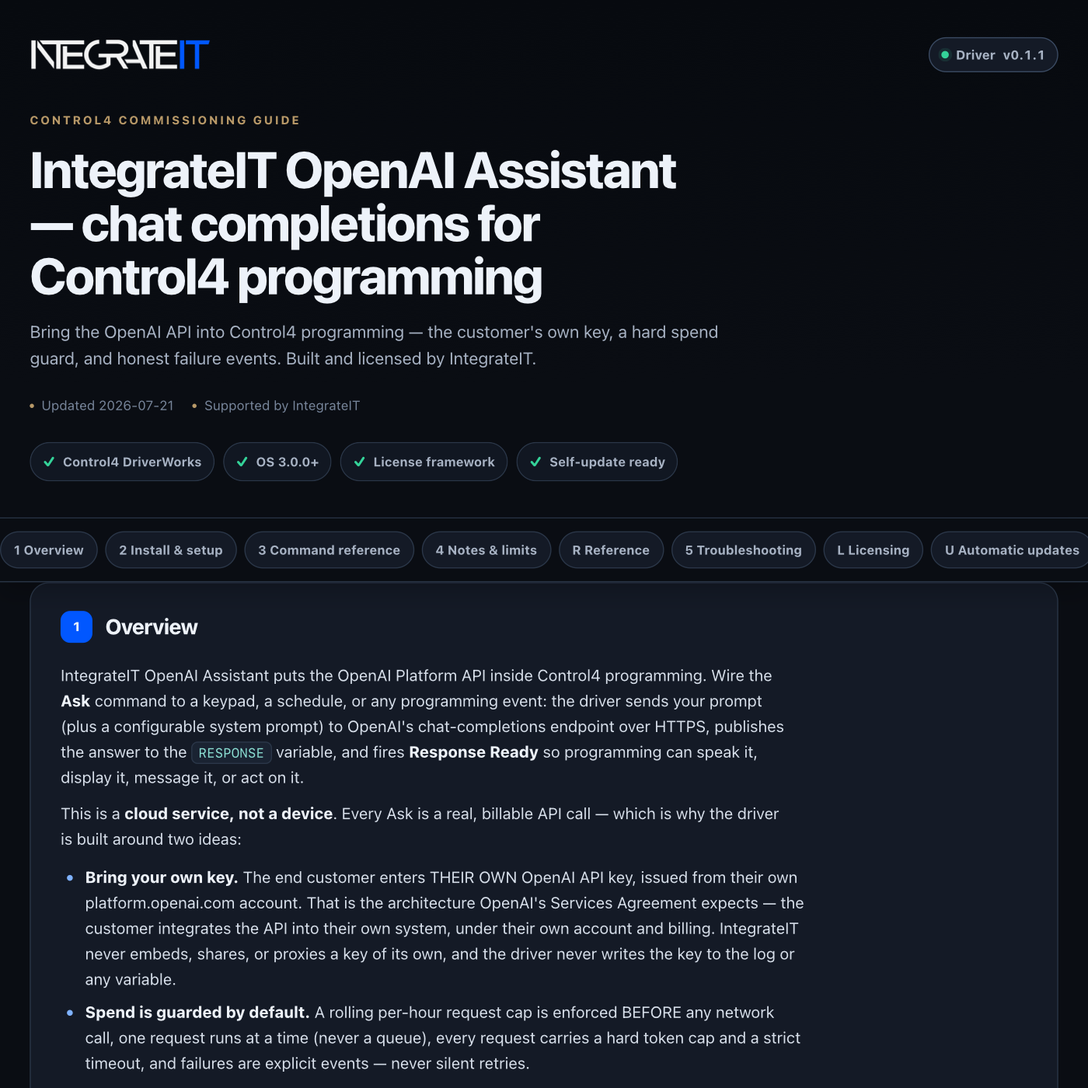
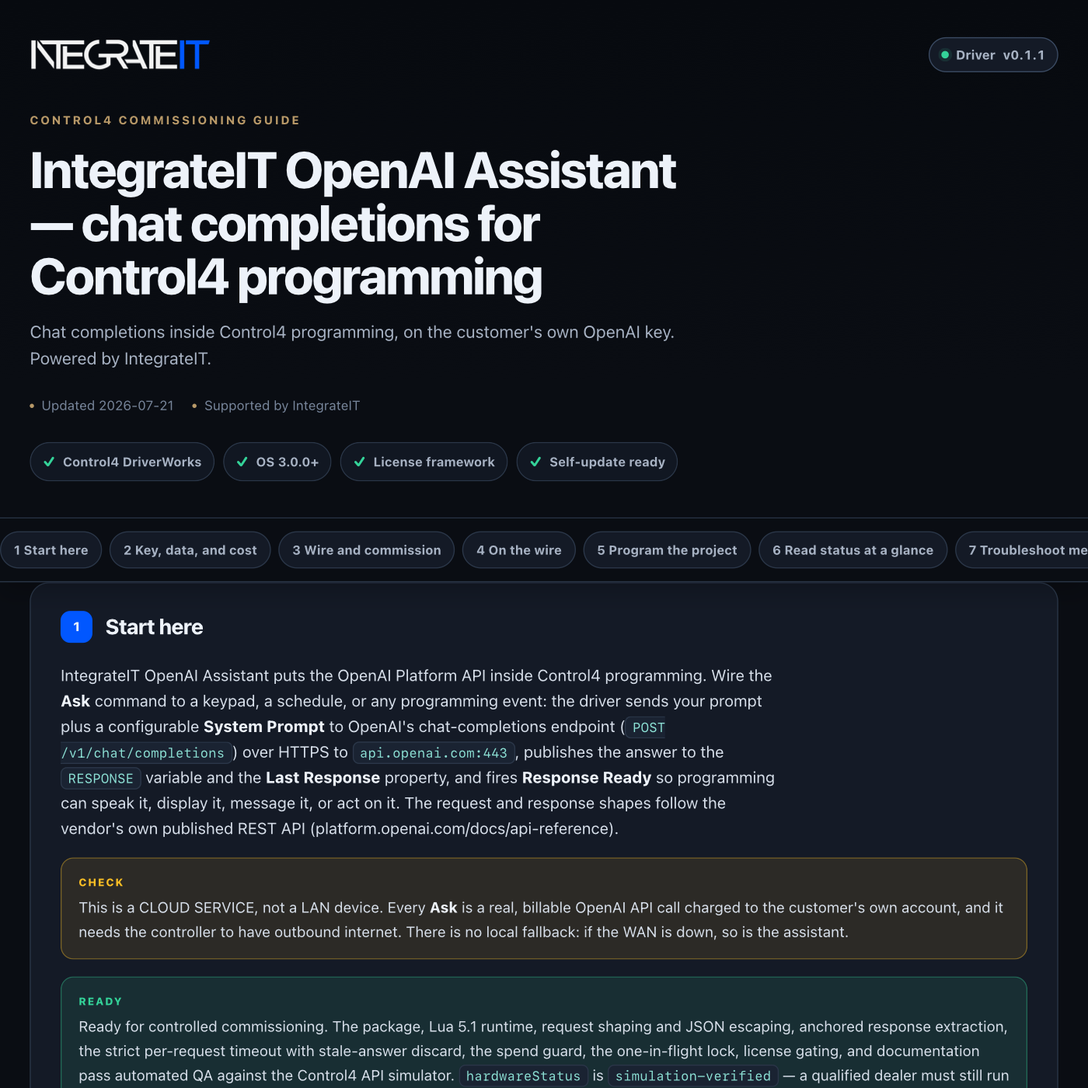
control4: publish driver channel (integrateit_openai 0.1.2)

diff --git a/control4/integrateit_openai/documentation.html b/control4/integrateit_openai/documentation.html
@@ -179,13 +179,13 @@ td code{white-space:normal}
     <div class="wrap">
       <div class="brandbar">
[1 lines of base64/hex data omitted]
-        <span class="version"><span class="word">Driver</span> v0.1.1</span>
+        <span class="version"><span class="word">Driver</span> v0.1.2</span>
       </div>
       <p class="eyebrow">Control4 commissioning guide</p>
       <h1>IntegrateIT OpenAI Assistant — chat completions for Control4 programming</h1>
-      <p class="sub">Bring the OpenAI API into Control4 programming — the customer's own key, a hard spend guard, and honest failure events. Built and licensed by IntegrateIT.</p>
+      <p class="sub">Chat completions inside Control4 programming, on the customer's own OpenAI key. Powered by IntegrateIT.</p>
       <div class="meta">
-        <span>Updated 2026-07-21</span>
+        <span>Updated 2026-07-26</span>
         <span>Supported by IntegrateIT</span>
       </div>
       <div class="readiness" aria-label="Driver capabilities">
@@ -198,61 +198,140 @@ td code{white-space:normal}
   </header>
 
   <div class="toc-wrap">
-    <nav class="toc wrap" aria-label="Documentation sections"><a href="#overview">1 Overview</a><a href="#install">2 Install &amp; setup</a><a href="#commands">3 Command reference</a><a href="#notes">4 Notes &amp; limits</a><a href="#reference">R Reference</a><a href="#troubleshooting">5 Troubleshooting</a><a href="#licensing">L Licensing</a><a href="#updates">U Automatic updates</a><a href="#changelog">V Version history</a></nav>
+    <nav class="toc wrap" aria-label="Documentation sections"><a href="#overview">1 Start here</a><a href="#trust-flow">2 Key, data, and cost</a><a href="#setup">3 Wire and commission</a><a href="#protocol">4 On the wire</a><a href="#programming">5 Program the project</a><a href="#status">6 Read status at a glance</a><a href="#troubleshooting">7 Troubleshoot methodically</a><a href="#trust">8 Ownership, privacy, and licensing</a><a href="#reference">R Reference</a><a href="#licensing">L Licensing</a><a href="#updates">U Automatic updates</a><a href="#changelog">V Version history</a></nav>
   </div>
 
   <main class="wrap">
     <section class="card" id="overview" data-card="overview">
-  <h2><span class="n">1</span> Overview</h2>
-  <p>IntegrateIT OpenAI Assistant puts the OpenAI Platform API inside Control4 programming. Wire the <b>Ask</b> command to a keypad, a schedule, or any programming event: the driver sends your prompt (plus a configurable system prompt) to OpenAI's chat-completions endpoint over HTTPS, publishes the answer to the <code>RESPONSE</code> variable, and fires <b>Response Ready</b> so programming can speak it, display it, message it, or act on it.</p>
-  <p>This is a <b>cloud service, not a device</b>. Every Ask is a real, billable API call — which is why the driver is built around two ideas:</p>
+  <h2><span class="n">1</span> Start here</h2>
+  <p>IntegrateIT OpenAI Assistant puts the OpenAI Platform API inside Control4 programming. Wire the <b>Ask</b> command to a keypad, a schedule, or any programming event: the driver sends your prompt plus a configurable <b>System Prompt</b> to OpenAI's chat-completions endpoint (<code>POST /v1/chat/completions</code>) over HTTPS to <code>api.openai.com:443</code>, publishes the answer to the <code>RESPONSE</code> variable and the <b>Last Response</b> property, and fires <b>Response Ready</b> so programming can speak it, display it, message it, or act on it. The request and response shapes follow the vendor's own published REST API (platform.openai.com/docs/api-reference).</p>
+  <div class="note warn">This is a CLOUD SERVICE, not a LAN device. Every <b>Ask</b> is a real, billable OpenAI API call charged to the customer's own account, and it needs the controller to have outbound internet. There is no local fallback: if the WAN is down, so is the assistant.</div>
+  <div class="note good">Ready for controlled commissioning. The package, Lua 5.1 runtime, request shaping and JSON escaping, anchored response extraction, the strict per-request timeout with stale-answer discard, the spend guard, the one-in-flight lock, license gating, and documentation pass automated QA against the Control4 API simulator. <code>hardwareStatus</code> is <code>simulation-verified</code> — a qualified dealer must still run a fresh install and an observed <b>Ask</b> against the live OpenAI API from the target controller before handoff.</div>
+  <p><b>What you get</b></p>
   <ul>
-    <li><b>Bring your own key.</b> The end customer enters THEIR OWN OpenAI API key, issued from their own platform.openai.com account. That is the architecture OpenAI's Services Agreement expects — the customer integrates the API into their own system, under their own account and billing. IntegrateIT never embeds, shares, or proxies a key of its own, and the driver never writes the key to the log or any variable.</li>
-    <li><b>Spend is guarded by default.</b> A rolling per-hour request cap is enforced BEFORE any network call, one request runs at a time (never a queue), every request carries a hard token cap and a strict timeout, and failures are explicit events — never silent retries.</li>
+    <li>An <b>Ask</b> command from any programming event — prompt from the <code>PROMPT</code> parameter (e.g. driven by another driver) or the <code>Prompt</code> property — to <code>POST /v1/chat/completions</code> with a configurable <b>Model</b> and <b>System Prompt</b></li>
+    <li>The answer published to the bounded <code>RESPONSE</code> variable, mirrored to the <b>Last Response</b> property, with a <b>Response Ready</b> event to react on</li>
+    <li>A rolling one-hour request cap enforced BEFORE any network call, one request in flight at a time, and a hard per-request timeout — every failure and every cap block fires an event, never a silent retry (a busy refusal is the one deliberate exception: it sets Status only, so a double-tap cannot spam <b>Request Failed</b>)</li>
+    <li>Input and output both bounded: <b>Max Prompt Characters</b> caps the request, <b>Max Response Tokens</b> caps the answer, <b>Response Character Limit</b> caps the stored variable</li>
+    <li>Honest truncation: a token-capped answer is flagged in Status, never presented as complete</li>
+    <li><b>Test API Key</b> proves the key and the controller's internet path against the free <code>GET /v1/models</code> endpoint with zero token spend</li>
+    <li>BYO-key by design: the customer's own OpenAI key, sent only in the <code>Authorization</code> header, never written to the log or any variable</li>
   </ul>
 </section>
 
-<section class="card" id="install" data-card="install">
-  <h2><span class="n">2</span> Install &amp; setup</h2>
+<section class="card" id="trust-flow" data-card="trust-flow">
+  <h2><span class="n">2</span> Key, data, and cost</h2>
+  <p>This driver is built around three facts a dealer must be able to state plainly to the customer.</p>
+  <ul>
+    <li><b>The key is the customer's own.</b> The end customer creates an API key from THEIR OWN platform.openai.com account and enters it in the password-protected <code>OpenAI API Key</code> property. That is the architecture OpenAI's Services Agreement expects — the customer integrates the API into their own system, under their own account and billing. IntegrateIT never embeds, shares, or proxies a key of its own. The key rides ONLY in the <code>Authorization: Bearer</code> header; it is never written to the Lua log (even in <b>Debug Mode → Print</b>) and never placed in a variable.</li>
+    <li><b>Prompt data leaves the LAN.</b> Unlike a LAN device driver, this one deliberately sends data off the controller: each <b>Ask</b> transmits the <code>Model</code> id, the <code>System Prompt</code>, and the prompt text to <code>api.openai.com</code> over HTTPS, under the customer's key. Nothing else goes to OpenAI — no project identity, no Control4 credentials, no other property values. (The shared IntegrateIT license and update services are separate traffic, itemized under Ownership, privacy, and licensing.) Do not put anything in a prompt you would not send to OpenAI's cloud.</li>
+    <li><b>The customer pays.</b> Every <b>Ask</b> bills the customer's OpenAI account by model and token usage. The <code>Hourly Request Cap</code> is a runaway-loop guard, not a billing control — it stops a stuck scene from stacking spend, but it does not price anything. For a hard ceiling, set a monthly usage limit in the OpenAI dashboard; that is the real billing control.</li>
+  </ul>
+</section>
+
+<section class="card" id="setup" data-card="setup">
+  <h2><span class="n">3</span> Wire and commission</h2>
   <ol class="steps">
-    <li>Have the customer create (or log into) their account at <b>platform.openai.com</b>, add a billing method, and create an API key (starts with <code>sk-</code>). Recommend they set a monthly usage limit in the OpenAI dashboard — that is the real billing control.</li>
-    <li>Add this driver to the project. Paste the key into <code>OpenAI API Key</code>.</li>
-    <li>Run the <b>Test API Key</b> action — it calls the free <code>GET /v1/models</code> endpoint and confirms the key and the controller's internet path with no token spend.</li>
+    <li>Have the customer create (or log into) their account at <b>platform.openai.com</b>, add a billing method, create an API key (starts with <code>sk-</code>), and set a monthly usage limit in the OpenAI dashboard.</li>
+    <li>Add <b>IntegrateIT OpenAI Assistant</b> to the project. Paste the customer's key into <code>OpenAI API Key</code>.</li>
+    <li>Run the <b>Test API Key</b> action. It calls the free <code>GET /v1/models</code> endpoint and confirms both the key and the controller's outbound HTTPS path with zero token spend — Status should read <code>API key OK</code>.</li>
     <li>Pick a <code>Model</code> (the default <code>gpt-4o-mini</code> is the low-cost choice) and tune the <code>System Prompt</code> — it sets the assistant's role on every request.</li>
-    <li>In Programming, drive the <b>Ask</b> command. Put the question in the <code>Prompt</code> property (or supply a <code>PROMPT</code> parameter when driving the command from another driver), then react to <b>Response Ready</b> and read the <code>RESPONSE</code> variable.</li>
-    <li>Set <code>Hourly Request Cap</code>, <code>Max Response Tokens</code>, <code>Max Prompt Characters</code>, and <code>Request Timeout (s)</code> to taste — the defaults (30/hour, 256 tokens, 8000 chars, 30 s) suit occasional programming use. Raise <code>Max Prompt Characters</code> if you drive long-context prompts (e.g. a paragraph of sensor data); an Ask whose prompt is longer than the cap is failed before any billable call.</li>
-    <li>Optionally enter a <code>License Key</code> (see Licensing) — the driver runs in Lenient mode without one.</li>
+    <li>Set <code>Hourly Request Cap</code>, <code>Max Response Tokens</code>, <code>Max Prompt Characters</code>, and <code>Request Timeout (s)</code> to taste. The defaults (30/hour, 256 tokens, 8000 chars, 30 s) suit occasional programming use. Raise <code>Max Prompt Characters</code> only if you drive long-context prompts; an Ask whose prompt exceeds the cap is failed before any billable call.</li>
+    <li>Optionally enter a <code>License Key</code> (see below) — the driver runs in Lenient mode without one.</li>
+    <li>In Programming, run <b>Ask</b> with a real question in <code>Prompt</code> (or <b>Ask Now</b> from the Actions tab), then watch <b>Response Ready</b> fire and the <code>RESPONSE</code> variable fill in. That is the proof the whole path works.</li>
   </ol>
 </section>
 
-<section class="card" id="commands" data-card="commands">
-  <h2><span class="n">3</span> Command reference</h2>
+<section class="card" id="protocol" data-card="protocol">
+  <h2><span class="n">4</span> On the wire</h2>
+  <p>Every <b>Ask</b> sends one JSON body to the fixed base <code>https://api.openai.com</code>. There is deliberately no base-URL property — a configurable endpoint next to a stored secret would be a key-exfiltration hazard, so Azure OpenAI and proxy endpoints are out of scope for this version. The body is built by hand with strict escaping (a stray quote, backslash, or newline in free-text prompts cannot corrupt the JSON):</p>
+  <pre><code>{"model":"gpt-4o-mini","messages":[{"role":"system","content":"…"},{"role":"user","content":"…"}],"max_completion_tokens":256}</code></pre>
+  <p><code>max_completion_tokens</code> is the current official cap field (the older <code>max_tokens</code> is documented as deprecated). The reply is read by anchored extraction — find the <code>content</code> string, honor backslash escapes — not a full JSON parser, so a truncated or garbage body fails cleanly rather than half-parsing. Non-ASCII <code>\u</code> escapes in the answer degrade to <code>?</code> because Composer variables are byte strings. Each HTTP status maps to exactly one outcome:</p>
   <table>
-    <tr><th>Command</th><th>What it does</th></tr>
-    <tr><td>Ask</td><td>Sends the prompt (the <code>PROMPT</code> parameter if supplied, else the <code>Prompt</code> property) to the model. The answer lands in <code>RESPONSE</code> and fires <b>Response Ready</b>.</td></tr>
-    <tr><td>Clear Response</td><td>Empties <code>RESPONSE</code> and <code>Last Response</code>.</td></tr>
+    <tr><th>Reply</th><th>Driver outcome</th></tr>
+    <tr><td>2xx with message content</td><td><code>RESPONSE</code> published, <b>Response Ready</b> fires</td></tr>
+    <tr><td>2xx, <code>finish_reason</code> "length"</td><td>Answer published, but Status says "truncated at token cap"; <b>Response Ready</b> still fires</td></tr>
+    <tr><td>2xx, unrecognized shape</td><td><b>Request Failed</b> — "unrecognized response shape (no message content)"</td></tr>
+    <tr><td>401 / 403</td><td><b>Request Failed</b> — "API key rejected (HTTP N) — re-enter the customer's OpenAI key"</td></tr>
+    <tr><td>429</td><td><b>Rate Limit Reached</b> — "OpenAI rate limit (HTTP 429): …" with OpenAI's own message</td></tr>
+    <tr><td>other non-2xx</td><td><b>Request Failed</b> — "OpenAI error (HTTP N): …" with OpenAI's own message</td></tr>
+    <tr><td>no response (code 0)</td><td><b>Request Failed</b> — "no response from api.openai.com (transport failure — check internet)"</td></tr>
+    <tr><td>no reply within <code>Request Timeout (s)</code></td><td><b>Request Failed</b> — "request timed out after Ns"; a late answer is discarded, never published</td></tr>
   </table>
-  <p><b>Actions tab:</b> *Ask Now* (uses the <code>Prompt</code> property), *Test API Key* (free key check), *Clear Response*, *Print Configuration*.</p>
-  <p><b>Events:</b> *Response Ready* (an answer was published), *Request Failed* (<code>LAST_ERROR</code> names the reason — missing config, transport failure, API error, unrecognized response, or timeout), *Rate Limit Reached* (blocked by the local hourly cap, or OpenAI answered HTTP 429).</p>
-  <p><b>Variables:</b> <code>RESPONSE</code> (the answer, truncated to <code>Response Character Limit</code>), <code>LAST_ERROR</code>, <code>BUSY</code> (a request is in flight), <code>REQUESTS_THIS_HOUR</code> (spend-guard count).</p>
+  <p>The driver is <b>non-streaming</b>: it waits for the complete answer, so a long generation takes seconds before <b>Response Ready</b> fires. It runs <b>one request in flight at a time</b> — a second <b>Ask</b> while one is pending is refused (Status reads Busy), never queued, so a stuck scene can never stack up API spend.</p>
 </section>
 
-<section class="card" id="notes" data-card="notes">
-  <h2><span class="n">4</span> Notes &amp; limits</h2>
+<section class="card" id="programming" data-card="programming">
+  <h2><span class="n">5</span> Program the project</h2>
+  <table>
+    <tr><th>Command</th><th>What it does</th></tr>
+    <tr><td>Ask</td><td>Sends the prompt (<code>PROMPT</code> parameter if supplied, else the <code>Prompt</code> property) to the model. The answer lands in <code>RESPONSE</code> and fires <b>Response Ready</b>.</td></tr>
+    <tr><td>Clear Response</td><td>Empties <code>RESPONSE</code> and the <b>Last Response</b> property.</td></tr>
+  </table>
+  <p><b>Actions tab:</b> *Ask Now* (uses the <code>Prompt</code> property), *Test API Key* (free key check), *Clear Response*, *Print Configuration* (prints config and spend-guard state — never the API key or license key).</p>
+  <table>
+    <tr><th>Event</th><th>Meaning</th></tr>
+    <tr><td><code>Response Ready</code></td><td>An answer was published to <code>RESPONSE</code></td></tr>
+    <tr><td><code>Request Failed</code></td><td>An Ask produced no answer — <code>LAST_ERROR</code> names the reason (missing config, over-long prompt, transport failure, API error, unrecognized response, or timeout)</td></tr>
+    <tr><td><code>Rate Limit Reached</code></td><td>Blocked by the local <code>Hourly Request Cap</code>, or OpenAI answered HTTP 429</td></tr>
+  </table>
+  <table>
+    <tr><th>Variable</th><th>Type</th><th>Meaning</th></tr>
+    <tr><td><code>RESPONSE</code></td><td>STRING</td><td>The answer, truncated to <code>Response Character Limit</code> (a client-side cut is marked with an ellipsis)</td></tr>
+    <tr><td><code>LAST_ERROR</code></td><td>STRING</td><td>The reason the last Ask failed or was blocked; empty after a good answer</td></tr>
+    <tr><td><code>BUSY</code></td><td>BOOL</td><td>A request is in flight — gate a scene on this before issuing another Ask</td></tr>
+    <tr><td><code>REQUESTS_THIS_HOUR</code></td><td>STRING</td><td>Requests counted against the rolling one-hour spend guard</td></tr>
+  </table>
+  <p>Three ways these wire into Composer programming:</p>
   <ul>
-    <li><b>Cost lives on the customer's OpenAI account.</b> The hourly cap is a guard against runaway programming loops, not a billing control — actual cost depends on the model and tokens. Set a usage limit in the OpenAI dashboard for a hard ceiling.</li>
-    <li><b>Both ends of a request are bounded.</b> <code>Max Response Tokens</code> caps the answer (output cost); <code>Max Prompt Characters</code> caps the prompt (input cost). An Ask whose prompt exceeds the character cap is failed with <b>Request Failed</b> *before* any billable call, so a scene that accidentally builds a giant prompt string never ships it to OpenAI.</li>
-    <li><b>A cut-off answer says so.</b> If the model stops at <code>Max Response Tokens</code> (OpenAI <code>finish_reason</code> "length"), the answer is truncated mid-thought. The driver still fires <b>Response Ready</b> and publishes what came back, but Status reads "truncated at token cap" — raise <code>Max Response Tokens</code> for a complete answer. (Separately, <code>RESPONSE</code> is also capped to <code>Response Character Limit</code> for display, marked with an ellipsis.)</li>
-    <li><b>The endpoint is fixed to <code>api.openai.com</code>.</b> There is deliberately no base-URL property: a configurable endpoint next to a stored secret would be a key-exfiltration hazard. Azure OpenAI and proxy endpoints are out of scope for this version.</li>
-    <li><b>Non-streaming.</b> The driver waits for the complete answer, so a long generation takes seconds before <b>Response Ready</b> fires. Keep <code>Max Response Tokens</code> modest for snappy scenes.</li>
-    <li><b>One request at a time.</b> An Ask issued while another is pending is refused (Status shows Busy) rather than queued — a stuck scene can never stack up API spend.</li>
-    <li><b>After a timeout the answer is thrown away.</b> If the API answers after <code>Request Timeout (s)</code>, the driver has already fired <b>Request Failed</b> and will not publish the stale answer.</li>
-    <li>The <code>OpenAI API Key</code> is treated as a secret: sent only in the request header, never written to the Lua log (even in Debug Mode), never placed in a variable.</li>
-    <li>Response extraction is anchored, not a full JSON parser: an unexpected response shape fails cleanly as <b>Request Failed</b>. Non-ASCII escape sequences in answers degrade to <code>?</code> in the <code>RESPONSE</code> variable.</li>
+    <li><b>When a keypad button is pressed → drive Ask.</b> Set the <code>Prompt</code> property (or pass a <code>PROMPT</code> parameter when driving from another driver), then on <b>Response Ready</b> speak <code>RESPONSE</code> through an announcement or push it to on-screen text.</li>
+    <li><b>When Request Failed fires → degrade gracefully.</b> Read <code>LAST_ERROR</code> and announce "assistant unavailable" so a scene never hangs waiting on a cloud that did not answer.</li>
+    <li><b>When Rate Limit Reached fires → back off.</b> Hold further Asks or light a status indicator; compare <code>REQUESTS_THIS_HOUR</code> against <code>Hourly Request Cap</code> to see whether it was the local guard or OpenAI's 429.</li>
   </ul>
+  <p>Control is gated by the license: under <b>Strict</b> enforcement an unlicensed controller sends nothing and fires no event — read <code>License Status</code> for that condition. The default <b>Lenient</b> mode allows commissioning while <code>License Status</code> carries the nag.</p>
+</section>
+
+<section class="card" id="status" data-card="status">
+  <h2><span class="n">6</span> Read status at a glance</h2>
+  <table>
+    <tr><th>Property / variable</th><th>Healthy result</th><th>What to do otherwise</th></tr>
+    <tr><td><code>Status</code></td><td><code>Idle</code>, <code>Asking &lt;model&gt;…</code>, or <code>Response ready (N chars)</code></td><td><code>Ask failed — &lt;reason&gt;</code> carries the same text as <code>LAST_ERROR</code>; a <code>truncated at token cap</code> note means raise <code>Max Response Tokens</code>; <code>Busy — a request is already in flight</code> means one Ask is pending; <code>Unlicensed - control disabled</code> means Strict enforcement without a key</td></tr>
+    <tr><td><code>Last Response</code></td><td>The answer you expected</td><td>Empty after a failure — read <code>LAST_ERROR</code></td></tr>
+    <tr><td><code>Requests This Hour</code></td><td>Below <code>Hourly Request Cap</code></td><td>At the cap, the next Ask fires <b>Rate Limit Reached</b> — find the over-asking loop. The driver republishes this once a minute, so it decays on its own as the rolling hour ages</td></tr>
+    <tr><td><code>LAST_ERROR</code></td><td>Empty after a good answer</td><td>Fix the exact reason named (key, prompt, transport, API status, timeout)</td></tr>
+    <tr><td><code>BUSY</code></td><td><code>0</code> at rest</td><td>Stuck at <code>1</code> past <code>Request Timeout (s)</code> should be impossible — the watchdog always clears it</td></tr>
+    <tr><td><code>License Status</code></td><td>Activated, or Lenient during commissioning</td><td>Enter a <code>License Key</code> before selecting Strict enforcement</td></tr>
+  </table>
+  <div class="note">Turn on <b>Debug Mode → Print</b> to watch every API call (method + path only — the key and the response body are never shown) in the Lua output window.</div>
+</section>
+
+<section class="card" id="troubleshooting" data-card="troubleshooting">
+  <h2><span class="n">7</span> Troubleshoot methodically</h2>
+  <table>
+    <tr><th>Symptom</th><th>Likely cause</th><th>Fix</th></tr>
+    <tr><td>Ask does nothing, no event fires</td><td>Strict enforcement + unlicensed</td><td>Check <code>License Status</code>; Lenient mode keeps control enabled without a key</td></tr>
+    <tr><td>A second Ask is ignored, Status reads <code>Busy — a request is already in flight</code></td><td>One request in flight at a time — the second Ask is refused, not queued, and fires no event by design</td><td>Gate the scene on the <code>BUSY</code> variable, or wait for <b>Response Ready</b> / <b>Request Failed</b> before asking again</td></tr>
+    <tr><td><b>Request Failed</b> at once, <code>LAST_ERROR</code> says "no OpenAI API Key set" or "no prompt"</td><td>Key or prompt empty — the Ask failed locally, no call was made</td><td>Enter the customer's key; supply a <code>PROMPT</code> parameter or set the <code>Prompt</code> property</td></tr>
+    <tr><td>"API key rejected (HTTP 401/403)"</td><td>Wrong or revoked key</td><td>Re-copy the key from platform.openai.com → API keys, then run <b>Test API Key</b></td></tr>
+    <tr><td>"OpenAI error (HTTP 404): …"</td><td>Model id typo, or the account lacks access</td><td>Fix the <code>Model</code> property; check the account's model access</td></tr>
+    <tr><td><b>Rate Limit Reached</b>, "Hourly Request Cap reached"</td><td>The local hourly spend guard tripped</td><td>Raise <code>Hourly Request Cap</code>, or find the programming loop that is over-asking</td></tr>
+    <tr><td><b>Rate Limit Reached</b>, HTTP 429</td><td>OpenAI-side rate or quota limit</td><td>Wait, or raise the account's rate limits / add billing headroom</td></tr>
+    <tr><td>"no response from api.openai.com"</td><td>Controller has no path to the internet</td><td>Check DNS and outbound HTTPS (port 443) from the controller's VLAN; run <b>Test API Key</b></td></tr>
+    <tr><td>"request timed out after Ns"</td><td>Slow generation or slow WAN</td><td>Raise <code>Request Timeout (s)</code>, lower <code>Max Response Tokens</code>, or pick a faster model</td></tr>
+    <tr><td>"prompt too long" on every Ask</td><td>A scene concatenated a huge prompt</td><td>Shorten the prompt string, or raise <code>Max Prompt Characters</code></td></tr>
+    <tr><td>Answer is cut off mid-thought</td><td>Model hit <code>Max Response Tokens</code> (<code>finish_reason</code> "length")</td><td>Raise <code>Max Response Tokens</code>; Status flags this so it is never presented as complete</td></tr>
+  </table>
+  <p>If a symptom survives every check above, run <b>Print Configuration</b>, capture the Lua output window, and send it to support@integrateit.tech · (913) 804-7575.</p>
+</section>
+
+<section class="card" id="trust" data-card="trust">
+  <h2><span class="n">8</span> Ownership, privacy, and licensing</h2>
+  <p>This package is an original IntegrateIT implementation of the documented OpenAI Platform REST API (platform.openai.com/docs/api-reference). It does not bundle another vendor's runtime, source code, brand assets, trial system, or license. OpenAI and gpt-4o are trademarks of OpenAI; IntegrateIT is not affiliated with OpenAI, and this driver is not an OpenAI product. Driver engineering, Control4 integration, documentation, QA, licensing, updates, and support are provided by IntegrateIT.</p>
+  <p>By design, prompt data does leave the controller: each <b>Ask</b> sends the <code>Model</code> id, the <code>System Prompt</code>, and the prompt text to <code>api.openai.com</code> under the customer's own key and is billed to the customer's own account. Nothing else goes to OpenAI — no project identity, no Control4 credentials, no other property values. The <code>OpenAI API Key</code> is treated as a secret: sent only in the request header, never logged even in Debug Mode, never placed in a variable. The shared IntegrateIT license and update services use the controller identity, driver slug, version, configured license key, and update channel as documented in the reference below.</p>
+  <p>Lenient mode allows commissioning without an activated key and keeps <code>License Status</code> visible. Strict mode blocks all <b>Ask</b> control until the Ops Portal has minted and validated a key for that controller. Installing this package does not itself mint or activate a controller license.</p>
 <section class="card" id="reference" data-card="reference">
   <h2><span class="n">R</span> Reference</h2>
-  <p>Generated from the driver manifest at build time — always matches this build (v0.1.1).</p>
+  <p>Generated from the driver manifest at build time — always matches this build (v0.1.2).</p>
   <h3>Properties</h3>
   <table>
     <tr><th>Property</th><th>Type</th><th>Default</th><th>Description</th></tr>
@@ -311,21 +390,6 @@ td code{white-space:normal}
   </table>
 </section>
 </section>
-
-<section class="card" id="troubleshooting" data-card="troubleshooting">
-  <h2><span class="n">5</span> Troubleshooting</h2>
-  <table>
-    <tr><th>Symptom</th><th>Likely cause</th><th>Fix</th></tr>
-    <tr><td>"API key rejected (HTTP 401)"</td><td>Wrong or revoked key</td><td>Re-copy the key from platform.openai.com → API keys. Run <b>Test API Key</b>.</td></tr>
-    <tr><td>"OpenAI error (HTTP 404): model not found"</td><td>Model id typo, or the account lacks access</td><td>Fix the <code>Model</code> property; check the account's model access.</td></tr>
-    <tr><td>*Rate Limit Reached* fires with "Cap reached"</td><td>The local hourly spend guard tripped</td><td>Raise <code>Hourly Request Cap</code>, or find the programming loop that is over-asking.</td></tr>
-    <tr><td>*Rate Limit Reached* fires with HTTP 429</td><td>OpenAI-side rate/quota limit</td><td>Wait, or raise the account's rate limits / add billing headroom.</td></tr>
-    <tr><td>"no response from api.openai.com"</td><td>Controller has no path to the internet</td><td>Check DNS and outbound HTTPS (port 443) from the controller's VLAN.</td></tr>
-    <tr><td>"request timed out after Ns"</td><td>Slow generation or slow WAN</td><td>Raise <code>Request Timeout (s)</code>, lower <code>Max Response Tokens</code>, or pick a faster model.</td></tr>
-    <tr><td>Commands do nothing</td><td>Strict enforcement + unlicensed</td><td>Check <code>License Status</code>; Lenient mode keeps control enabled without a key.</td></tr>
-  </table>
-  <div class="note">Turn on <code>Debug Mode → Print</code> to watch every API call (method + path only — the key and the response body are never shown) in the Lua output window.</div>
-</section>
 <section class="card" id="licensing" data-card="licensing">
   <h2><span class="n">L</span> Licensing</h2>
   <p>This driver is licensed <b>per controller</b>. Each license key locks to one controller's
@@ -373,7 +437,9 @@ td code{white-space:normal}
     <section class="card" id="changelog" data-card="changelog">
   <h2><span class="n">V</span> Version history</h2>
   <div class="chg">
-    <div class="rel"><b>v0.1.1</b> <span class="pill green">current</span><span class="d">2026-07-21</span>
+    <div class="rel"><b>v0.1.2</b> <span class="pill green">current</span><span class="d">2026-07-26</span>
+      <ul><li>Documentation rebuilt to the IntegrateIT commissioning-guide standard: uniform sections, honest contracts, verified claim-by-claim against the code.</li></ul></div>
+    <div class="rel"><b>v0.1.1</b><span class="d">2026-07-21</span>
       <ul><li>Input spend guard: added a per-prompt character cap (Max Prompt Characters, default 8000, 100–100000). An Ask whose prompt exceeds the cap is failed with Request Failed BEFORE the spend-window count and any network call. The max_completion_tokens cap only ever bounded the answer, so a runaway scene that concatenated a huge variable could have shipped a large input-token charge to the customer's account on every Ask — this bounds the request too.</li><li>Honest server-side truncation: when OpenAI stops at max_completion_tokens (finish_reason "length") the answer is cut off mid-thought. The driver still fires Response Ready and publishes what came back, but Status now reads "truncated at token cap — raise Max Response Tokens" instead of presenting a partial answer as if it were complete. With the 256-token default this is a common case, not an edge one.</li></ul></div>
     <div class="rel"><b>v0.1.0</b><span class="d">2026-07-20</span>
       <ul><li>Initial release: non-streaming chat-completions Ask path against the official OpenAI Platform API (POST /v1/chat/completions, bearer-key auth).</li><li>Ask command (PROMPT parameter or Prompt property) with configurable model, system prompt, and max_completion_tokens cap; answer published to a bounded RESPONSE variable with a Response Ready event.</li><li>Strict per-request timeout with stale-response discard; Request Failed and Rate Limit Reached events; LAST_ERROR variable.</li><li>Spend guard: rolling one-hour request cap enforced before any network call; one request in flight at a time; Requests This Hour visibility.</li><li>BYO-key design: the end customer's own API key in a password property, sent only in the Authorization header, never logged, never placed in a variable.</li><li>Test API Key action via the free GET /v1/models endpoint.</li></ul></div>

diff --git a/control4/integrateit_openai/CHANGELOG.md b/control4/integrateit_openai/CHANGELOG.md
@@ -1,5 +1,8 @@
 # Changelog — IntegrateIT OpenAI Assistant
 
+## [0.1.2] - 2026-07-26
+- Documentation rebuilt to the IntegrateIT commissioning-guide standard: uniform sections, honest contracts, verified claim-by-claim against the code.
+
 ## [0.1.1] - 2026-07-21
 - Input spend guard: added a per-prompt character cap (Max Prompt Characters,
   default 8000, 100–100000). An Ask whose prompt exceeds the cap is failed with
